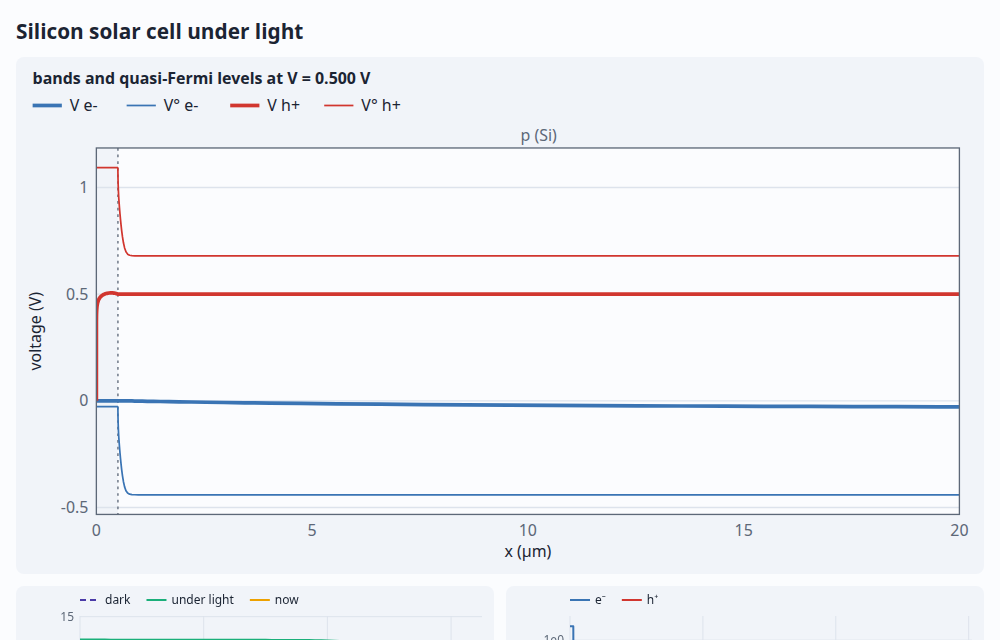
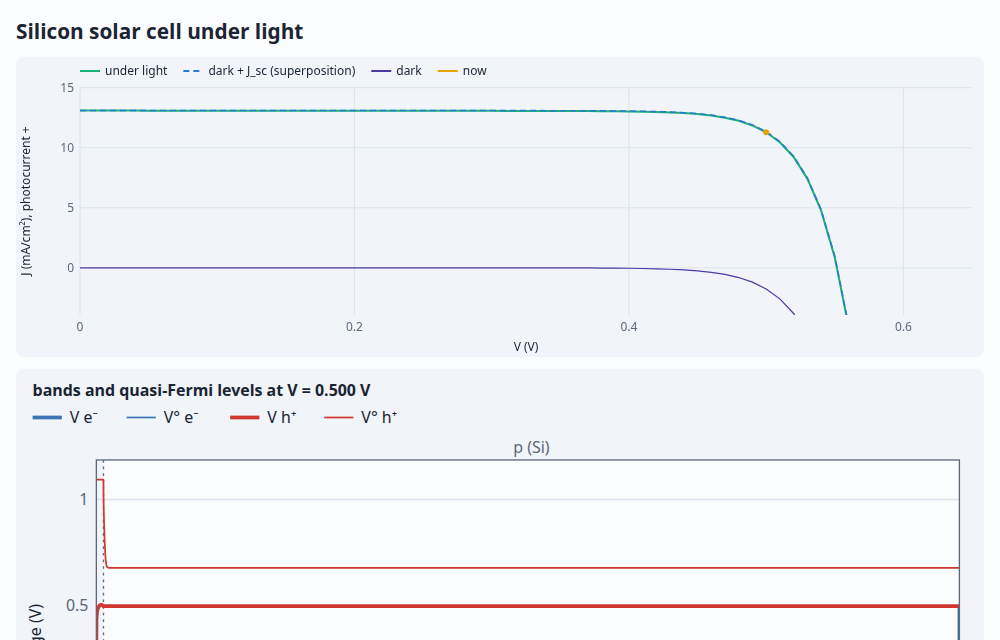
Solar demo: a base-lifetime control, J_sc and V_oc checked against collection theory, superposition, aligned densities
The page claimed J_sc ≈ qG(L_n + L_p + W); with a recombining back contact the base collects
L_n tanh(W_b/2L_n), never more than half of it.

diff --git a/demos/solar.html b/demos/solar.html
@@ -9,102 +9,115 @@
 <body>
 <main>
   <h1>Silicon solar cell under light</h1>
-  <p>A thin n⁺ emitter on a thick p base. Light is a reservoir: the reaction photon → e⁻ + h⁺, with the
-    photons' μ far above the gap, generates pairs uniformly. Carriers made within a diffusion length of the
-    junction are collected, so the short-circuit current is about qG(L<sub>n</sub> + L<sub>p</sub> + W). Under
-    light the quasi-Fermi levels split even at zero bias; at open circuit they split by qV<sub>oc</sub> and
-    no current flows.</p>
+  <p>A thin n⁺ emitter on a 60 µm p base, with metal contacts front and back. Light is a reservoir: the reaction
+    photon → e⁻ + h⁺, with the photons' μ far above the gap, generates pairs uniformly. Under light the
+    quasi-Fermi levels split even at zero bias; at open circuit they split by qV<sub>oc</sub> and no current
+    flows. A pair made in the base is collected if its electron reaches the junction before it recombines or
+    reaches the back contact, which is a sink here (there's no back-surface field). Integrating that chance
+    over the base gives L<sub>n</sub> tanh(W<sub>b</sub>/2L<sub>n</sub>) of collecting width: about L<sub>n</sub>
+    for a short diffusion length, but never more than half the base however long it is. The readout checks
+    J<sub>sc</sub> = qG(that + the depletion layer + the emitter's share) and
+    V<sub>oc</sub> = V<sub>T</sub> ln(J<sub>sc</sub>/J₀ + 1), with J₀ from the dark curve. The dashed curve is
+    the dark curve shifted by J<sub>sc</sub>, the superposition principle.</p>
   <div class="controls">
     <label>bias V <input id="V" type="range" min="0" max="0.65" step="0.005" value="0.5"><output id="Vout"></output></label>
     <label>light <input id="G" type="range" min="0.1" max="3" step="0.1" value="1"><output id="Gout"></output></label>
+    <label>base lifetime <input id="kf" type="range" min="6" max="10" step="0.5" value="8"><output id="kfOut"></output></label>
     <span class="readout" id="stats"></span>
   </div>
   <div class="grid">
+    <canvas class="wide" id="jv"></canvas>
     <div class="levels wide" id="levels"></div>
-    <canvas id="jv"></canvas>
-    <canvas id="conc"></canvas>
+    <div class="levels wide" id="conc"></div>
   </div>
 </main>
 <script type="module">
-import { Device, units } from '../src/index.js';
+import { Device, units, EPS0, FARADAY, GAS_CONSTANT, AVOGADRO } from '../src/index.js';
 import { build, layer, ohmic, semiconductor, live } from '../src/kit.js';
 import { chart, colors } from './plot.js';
-import { levels, showCode, fromQuery, speciesColor } from './common.js';
+import { levels, profiles, showCode, fromQuery } from './common.js';
 
+const Si = semiconductor('Si'), We = units.um(0.5), Wb = units.um(60), ND = units.perCm3(1e19), NA = units.perCm3(1e16);
 const G1 = 50; // generation at "1×" light, mol/(m³·s): 3e19 pairs per cm³ per second
-const cell = (V, light) =>
+const reactions = (light, kf) => [
+  // Band-to-band recombination: τ = 1/(kf·N), so L_n = √(D τ) ≈ 48 µm in the base at kf = 1e8.
+  { equation: 'e- + h+ = 0', kf: { Si: kf } },
+  // Photogeneration from a photon reservoir, at the rate kf (mol/(m³·s)).
+  { equation: 'photon = e- + h+', fixed: { photon: units.eV(3) }, kf: { Si: G1 * light } },
+];
+const cell = (V, light, kf) =>
   build({
     T: 300,
-    library: [semiconductor('Si')],
-    stack: [
-      ohmic(0),
-      layer('Si', units.um(0.5), { name: 'n⁺', donors: units.perCm3(1e19) }),
-      layer('Si', units.um(60), { name: 'p', acceptors: units.perCm3(1e16) }),
-      ohmic(V),
-    ],
-    bulkReactions: [
-      // Recombination: τ = 1/(kf·N) ≈ 0.6 µs in the base, so L_n = √(D τ) ≈ 48 µm.
-      { equation: 'e- + h+ = 0', kf: { Si: 1e8 } },
-      // Photogeneration from a photon reservoir, at the rate kf (mol/(m³·s)).
-      { equation: 'photon = e- + h+', fixed: { photon: units.eV(3) }, kf: { Si: G1 * light } },
-    ],
+    library: [Si],
+    stack: [ohmic(0), layer('Si', We, { name: 'n⁺', donors: ND }), layer('Si', Wb, { name: 'p', acceptors: NA }), ohmic(V)],
+    bulkReactions: reactions(light, kf),
     grid: { hmin: units.nm(1), hmax: units.um(1) },
   });
 
-const V = document.getElementById('V'), light = document.getElementById('G');
-fromQuery(V);
-fromQuery(light);
+const V = document.getElementById('V'), light = document.getElementById('G'), life = document.getElementById('kf');
+for (const el of [V, light, life]) fromQuery(el);
+const kf = () => 10 ** +life.value;
 
-// The J–V curve for the present light: a plain Device swept in bias, warm from point to point.
-// Power out is −V·J here, since the photocurrent flows toward +x (holes to the p side).
+// The collecting width: the depletion layer, plus L tanh(W/2L) on each side (a sink at each contact).
+const { 'e-': el, 'h+': ho } = Si.materials.Si.species, VT = (GAS_CONSTANT * 300) / FARADAY;
+const ni2 = el.cRef * ho.cRef * Math.exp(-(ho.mu0 - el.mu0) / (GAS_CONSTANT * 300));
+function collecting(k) {
+  const Vbi = VT * Math.log((ND * NA) / ni2), Wd = Math.sqrt(((2 * Si.materials.Si.epsr * EPS0 * Vbi) / FARADAY) * (1 / NA + 1 / ND));
+  const xp = (Wd * ND) / (NA + ND), Ln = Math.sqrt(el.D / (k * NA)), Lp = Math.sqrt(ho.D / (k * ND));
+  return { width: Wd + Ln * Math.tanh((Wb - xp) / (2 * Ln)) + Lp * Math.tanh((We - (Wd - xp)) / (2 * Lp)), Ln };
+}
+
+// The J–V curves for the present light and lifetime, dark and lit: plain Devices swept in bias,
+// warm from point to point. The photocurrent flows toward +x (holes to the p side), so power out is V·J.
 const curve = (G) => {
-  const dev = new Device(cell(0, G)), J = [];
+  const dev = new Device(cell(0, G, kf())), J = [];
   for (let v = 0; v <= 0.651; v += 0.01) {
     dev.set({ contacts: { right: { V: v } } });
-    J.push(dev.solve().current);
+    J.push(dev.solve().current / 10); // mA/cm²
   }
   return J;
 };
-const dark = curve(0); // in the dark: the diode alone (superposition: the light shifts it by J_sc)
 let jv;
 function sweep() {
-  jv = { V: dark.map((_, k) => k * 0.01), J: curve(+light.value) };
-  const oc = new Device(cell({ I: 0 }, +light.value)).solve(); // open circuit: the terminal floats
-  const Jsc = jv.J[0], Voc = oc.terminals.right.V;
-  const Pmax = Math.max(...jv.V.map((v, k) => v * jv.J[k]));
-  jv.stats = `J_sc = ${(Jsc / 10).toFixed(1)} mA/cm² · V_oc = ${Voc.toFixed(3)} V · FF = ${(Pmax / (Jsc * Voc)).toFixed(3)} · P_max = ${(Pmax / 10).toFixed(1)} mW/cm²`;
+  const dark = curve(0), lit = curve(+light.value);
+  const oc = new Device(cell({ I: 0 }, +light.value, kf())).solve(); // open circuit: the terminal floats
+  const Jsc = lit[0], Voc = oc.terminals.right.V, vs = dark.map((_, k) => k * 0.01);
+  const Pmax = Math.max(...vs.map((v, k) => v * lit[k]));
+  const J0 = -dark[30] / (Math.exp(0.3 / VT) - 1); // from the dark curve at 0.3 V
+  const theory = (FARADAY * G1 * +light.value * collecting(kf()).width) / 10;
+  jv = {
+    V: vs, dark, lit, Jsc,
+    stats: `J_sc = ${Jsc.toFixed(2)} mA/cm² (collection theory ${theory.toFixed(2)}) · V_oc = ${Voc.toFixed(3)} V (V_T ln(J_sc/J₀ + 1) = ${(VT * Math.log(Jsc / J0 + 1)).toFixed(3)}) · FF = ${(Pmax / (Jsc * Voc)).toFixed(3)} · P_max = ${Pmax.toFixed(2)} mW/cm²`,
+  };
 }
 
-const dev = live(cell(+V.value, +light.value), { onsolution: draw });
-const update = () => dev.set({ contacts: { right: { V: +V.value } }, bulkReactions: cell(0, +light.value).bulkReactions });
+const dev = live(cell(+V.value, +light.value, kf()), { onsolution: draw });
+const update = () => dev.set({ contacts: { right: { V: +V.value } }, bulkReactions: reactions(+light.value, kf()) });
 V.addEventListener('input', update);
-light.addEventListener('change', () => {
-  sweep();
-  update();
-});
+for (const el of [light, life])
+  el.addEventListener('change', () => {
+    sweep();
+    update();
+  });
 sweep();
 
 function draw(sol) {
-  const v = sol.terminals.right.V;
+  const v = sol.terminals.right.V, tau = 1 / (kf() * NA);
   document.getElementById('Vout').textContent = `${v.toFixed(3)} V`;
   document.getElementById('Gout').textContent = `${(+light.value).toFixed(1)}×`;
+  document.getElementById('kfOut').textContent = `τₙ ${tau < 1e-6 ? `${+(tau * 1e9).toPrecision(2)} ns` : `${+(tau * 1e6).toPrecision(2)} µs`}, Lₙ ${+(collecting(kf()).Ln * 1e6).toPrecision(2)} µm`;
   document.getElementById('stats').textContent = jv.stats;
-  levels(document.getElementById('levels'), sol, { title: `bands and quasi-Fermi levels at V = ${v.toFixed(3)} V`, xlim: [0, 20e-6] });
   chart(document.getElementById('jv'), {
-    xlabel: 'V (V)', ylabel: 'J (mA/cm²)', ylim: [-0.3 * jv.J[0] / 10, 1.15 * jv.J[0] / 10],
+    xlabel: 'V (V)', ylabel: 'J (mA/cm²), photocurrent +', ylim: [-0.3 * jv.Jsc, 1.15 * jv.Jsc],
     series: [
-      { x: jv.V, y: dark.map((j) => j / 10), color: colors[6], dash: [6, 4], label: 'dark' },
-      { x: jv.V, y: jv.J.map((j) => j / 10), color: colors[2], label: 'under light' },
+      { x: jv.V, y: jv.lit, color: colors[2], label: 'under light' },
+      { x: jv.V, y: jv.dark.map((j) => j + jv.Jsc), color: colors[0], dash: [6, 4], width: 1.5, label: 'dark + J_sc (superposition)' },
+      { x: jv.V, y: jv.dark, color: colors[6], width: 1.2, label: 'dark' },
       { x: [v], y: [sol.current / 10], color: colors[3], marker: true, width: 0, label: 'now' },
     ],
   });
-  chart(document.getElementById('conc'), {
-    xscale: 1e6, xlabel: 'x (µm)', ylabel: 'concentration (mol/m³)', logy: true,
-    series: [
-      { x: sol.x, y: sol.c['e-'], color: speciesColor(sol, 'e-'), label: 'e⁻' },
-      { x: sol.x, y: sol.c['h+'], color: speciesColor(sol, 'h+'), label: 'h⁺' },
-    ],
-  });
+  levels(document.getElementById('levels'), sol, { title: `bands and quasi-Fermi levels at V = ${v.toFixed(3)} V` });
+  profiles(document.getElementById('conc'), sol, { species: ['e-', 'h+'], title: 'carrier densities', ylabel: 'density (cm⁻³)', scale: AVOGADRO * 1e-6, log: true });
 }
 showCode();
 </script>

diff --git a/demos/index.html b/demos/index.html
@@ -16,7 +16,7 @@
   <h2>Semiconductors</h2>
   <div class="cards">
     <a class="card" href="pn.html"><img src="screenshots/pn.png" alt="pn junction level diagram"><div><b>pn junction</b><span>Quasi-Fermi levels and band edges under bias; the I–V curve against Shockley, short diode to long.</span></div></a>
-    <a class="card" href="solar.html"><img src="screenshots/solar.png" alt="solar cell"><div><b>Solar cell</b><span>Photogeneration from a photon reservoir: J–V, V<sub>oc</sub>, fill factor, and the split quasi-Fermi levels.</span></div></a>
+    <a class="card" href="solar.html"><img src="screenshots/solar.png" alt="solar cell"><div><b>Solar cell</b><span>Photogeneration from a photon reservoir: J–V, V<sub>oc</sub> and J<sub>sc</sub> against collection theory, the split quasi-Fermi levels.</span></div></a>
     <a class="card" href="mos.html"><img src="screenshots/mos.png" alt="MOS capacitor"><div><b>MOS capacitor</b><span>Accumulation, depletion and inversion under a metal gate; the low-frequency C–V curve.</span></div></a>
   </div>
 

diff --git a/demos/pn.html b/demos/pn.html
@@ -101,7 +101,7 @@ update();
 function draw(sol, info) {
   const V = sol.terminals.right.V, tau = 1 / (kf() * NA), Ln = Math.sqrt(el.D * tau);
   document.getElementById('Vout').textContent = `${V.toFixed(2)} V`;
-  document.getElementById('kfOut').textContent = `τₙ ${tau < 1e-6 ? `${(tau * 1e9).toPrecision(2)} ns` : `${(tau * 1e6).toPrecision(2)} µs`}, Lₙ ${(Ln * 1e6).toPrecision(2)} µm`;
+  document.getElementById('kfOut').textContent = `τₙ ${tau < 1e-6 ? `${+(tau * 1e9).toPrecision(2)} ns` : `${+(tau * 1e6).toPrecision(2)} µs`}, Lₙ ${+(Ln * 1e6).toPrecision(2)} µm`;
   document.getElementById('I').textContent =
     `|J| = ${(Math.abs(sol.current) / 1e4).toExponential(2)} A/cm² · Shockley ${(Math.abs(shockley(V, kf())) / 1e4).toExponential(2)} · ${info.ms.toFixed(1)} ms` + (info.failed ? ' · (no solution here)' : '');
   chart(document.getElementById('iv'), {
